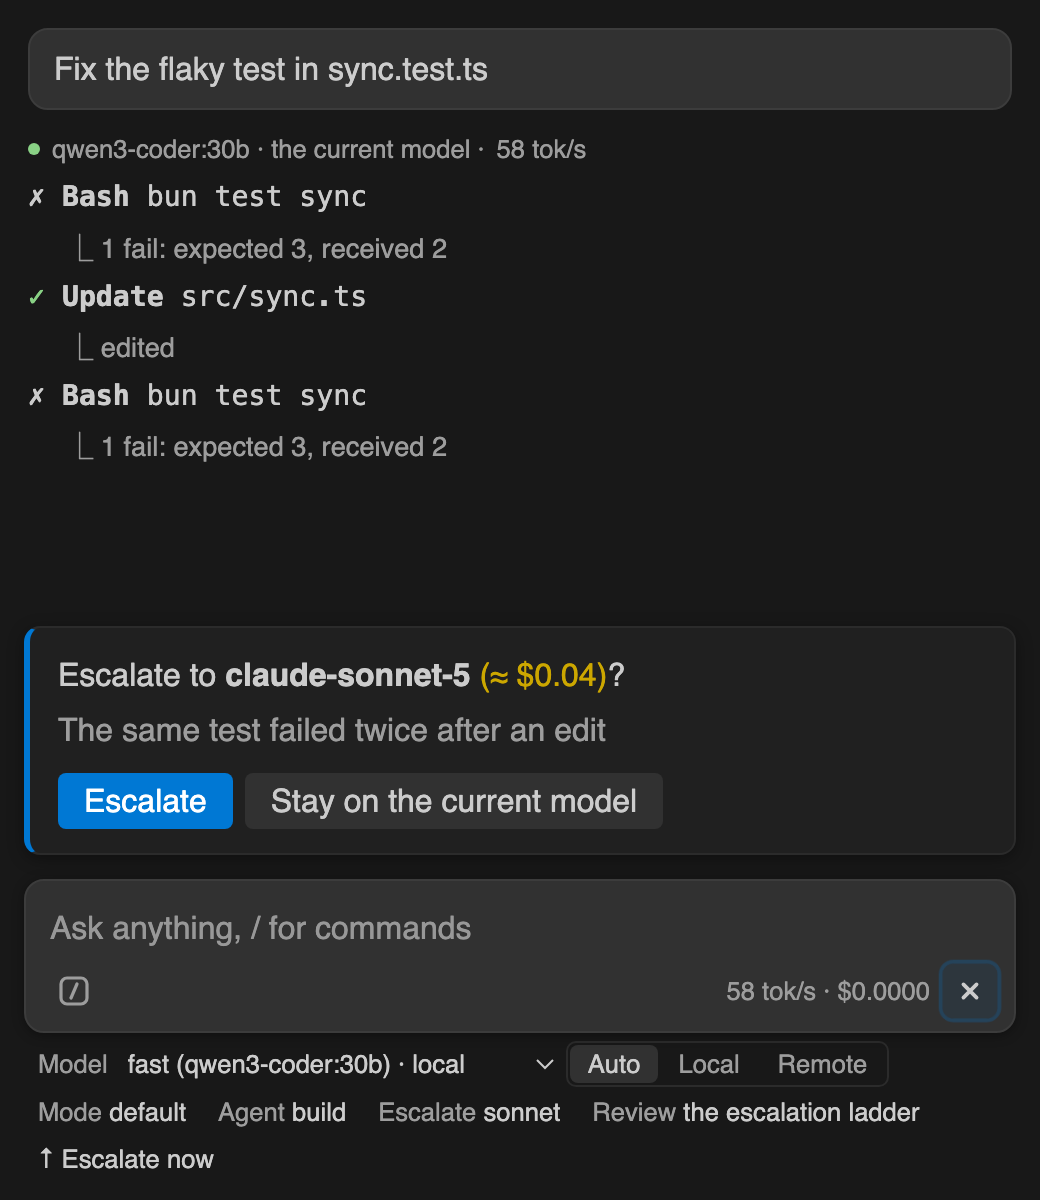
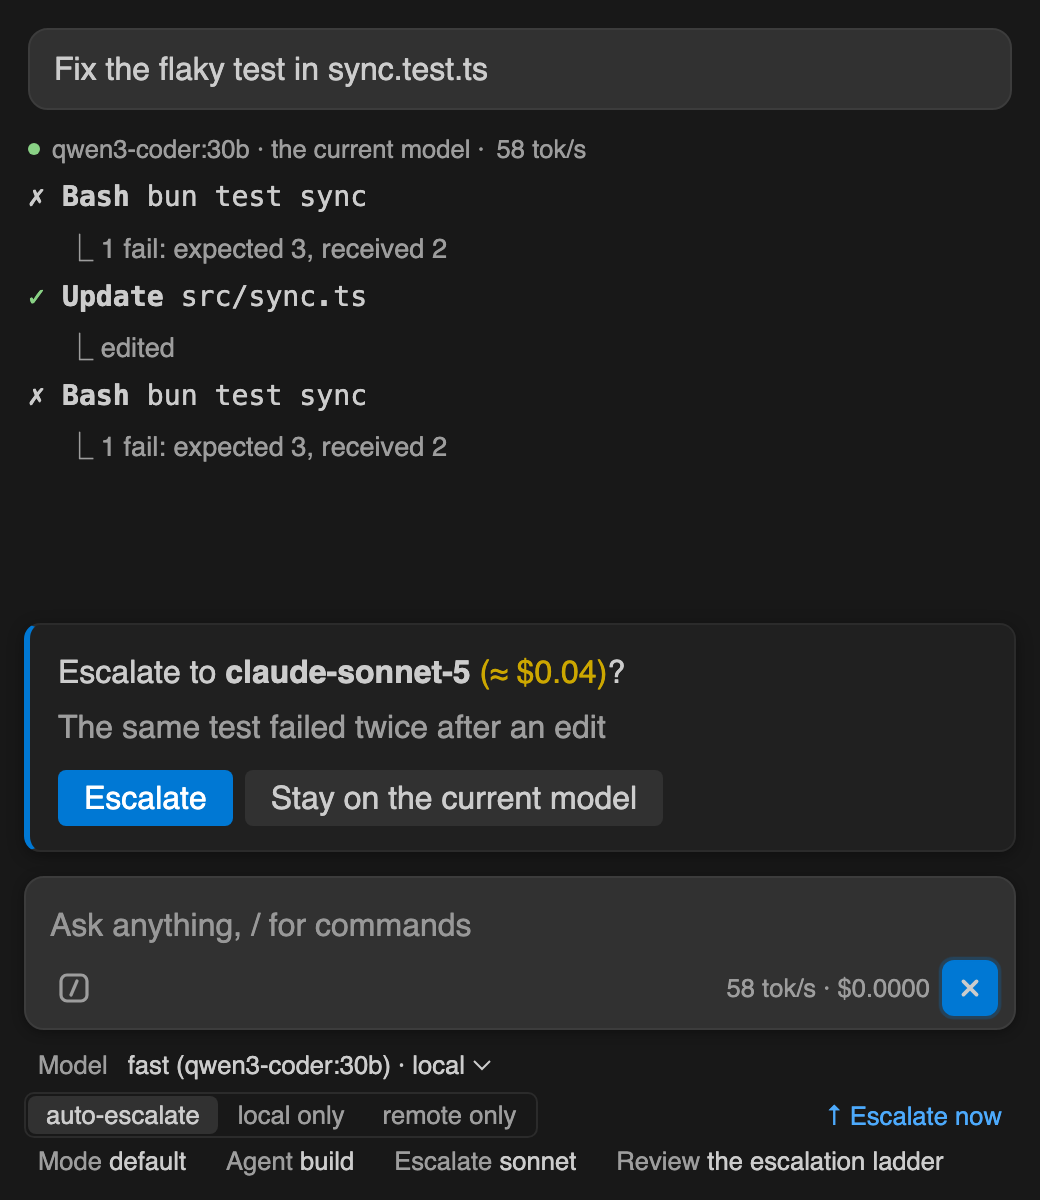
fix(vscode): tidier controls and readable command output
The controls under the composer wrapped into loose rows of mixed pills. The
model, route, and escalate-now now share one row and the session settings
sit quieter under it; the model select fits its text. Command output uses
the normal text color instead of the description grey.

diff --git a/apps/vscode/src/webview/styles.ts b/apps/vscode/src/webview/styles.ts
@@ -54,7 +54,7 @@ export const STYLES = `
   details.subagent > .children { margin: 4px 0 8px 6px; padding-left: 10px; border-left: 2px solid var(--vscode-panel-border); }
   .ok { color: var(--vscode-charts-green); } .error { color: var(--vscode-errorForeground); } .running { color: var(--vscode-charts-yellow); }
   .detail { color: var(--vscode-descriptionForeground); margin-left: 1.4em; white-space: pre-wrap; }
-  .info { color: var(--vscode-descriptionForeground); white-space: pre-wrap; font-family: var(--vscode-editor-font-family); font-size: .88em; margin: 6px 0; padding: 2px 0 2px 10px; border-left: 2px solid var(--vscode-panel-border); }
+  .info { white-space: pre-wrap; font-family: var(--vscode-editor-font-family); font-size: .88em; margin: 6px 0; padding: 2px 0 2px 10px; border-left: 2px solid var(--vscode-panel-border); }
   .tool .private { color: var(--vscode-charts-blue); font-size: 0.9em; }
   .tool + .detail { margin-left: 1.4em; font-size: .85em; }
   .output { font-family: var(--vscode-editor-font-family); font-size: .82em; white-space: pre; overflow-x: auto; color: var(--vscode-descriptionForeground); margin: 2px 0 6px 2.4em; }
@@ -150,7 +150,11 @@ export const STYLES = `
   .menu-empty { padding: 8px; color: var(--vscode-descriptionForeground); }
 
   /* Routing and roles, under the composer */
-  .controls { display: flex; flex-wrap: wrap; align-items: center; gap: 2px; margin-top: 4px; font-size: .8em; }
+  .controls { display: flex; flex-direction: column; gap: 2px; margin-top: 6px; font-size: .8em; }
+  .controls .bar { display: flex; flex-wrap: wrap; align-items: center; gap: 2px; }
+  .controls .bar.quiet { gap: 2px 10px; padding-left: 2px; }
+  .controls .bar.quiet .pill { padding: 1px 4px; }
+  .controls .pill.up { margin-left: auto; color: var(--vscode-textLink-foreground); }
   .controls:empty { display: none; }
   .segmented { display: inline-flex; gap: 1px; padding: 1px; margin-right: 4px; border: 1px solid var(--vscode-panel-border); border-radius: 5px; }
   .segmented button { background: transparent; color: var(--vscode-descriptionForeground); border: 1px solid transparent; border-radius: 4px; padding: 1px 8px; }
@@ -161,7 +165,7 @@ export const STYLES = `
   .pill .k { color: var(--vscode-descriptionForeground); }
   .pill .here { font-weight: 600; color: var(--vscode-charts-yellow); }
   .pill.model { display: inline-flex; align-items: center; gap: 4px; padding: 0 2px 0 6px; }
-  .pill.model select { font: inherit; color: var(--vscode-foreground); background: transparent; border: none; padding: 2px 2px; max-width: 220px; text-overflow: ellipsis; cursor: pointer; }
+  .pill.model select { font: inherit; color: var(--vscode-foreground); background: transparent; border: none; padding: 2px 2px; max-width: 220px; field-sizing: content; text-overflow: ellipsis; cursor: pointer; }
   .pill.model select:focus { outline: 1px solid var(--vscode-focusBorder); border-radius: 4px; }
   .pill.model option { background: var(--vscode-dropdown-background); color: var(--vscode-dropdown-foreground); }
 

diff --git a/apps/vscode/src/webview/controls.ts b/apps/vscode/src/webview/controls.ts
@@ -68,10 +68,10 @@ export function renderControls({
       `<button class="${r.value === route ? 'on' : ''}" data-route="${r.value}" title="${esc(r.description)}">${r.label}</button>`,
   ).join('')}</span>`;
   // The model first: it's what people change most.
-  const parts = roles ? [renderModelSelect(roles, models), routes] : [routes];
-  parts.push(
+  const main = roles ? [renderModelSelect(roles, models), routes] : [routes];
+  const parts = [
     pill('data-mode', 'Mode', esc(modeLabel(mode)), `${MODE_DESCRIPTIONS[mode]} (click to change)`),
-  );
+  ];
   if (agent)
     parts.push(pill('data-agent', 'Agent', esc(agent), 'Start a new session with another agent'));
   if (roles) {
@@ -93,9 +93,10 @@ export function renderControls({
       pill('data-role="review"', 'Review', esc(formatReviewers(roles)), 'Who reviews edits'),
     );
     if (roles.escalate.length)
-      parts.push(
+      main.push(
         `<button class="pill up" data-escalate-now title="A stronger model takes over: the next step of this turn, or your next prompt (/up)">↑ Escalate now</button>`,
       );
   }
-  return parts.join('');
+  // What people change on one line, the session's settings quieter under it.
+  return `<div class="bar">${main.join('')}</div><div class="bar quiet">${parts.join('')}</div>`;
 }
